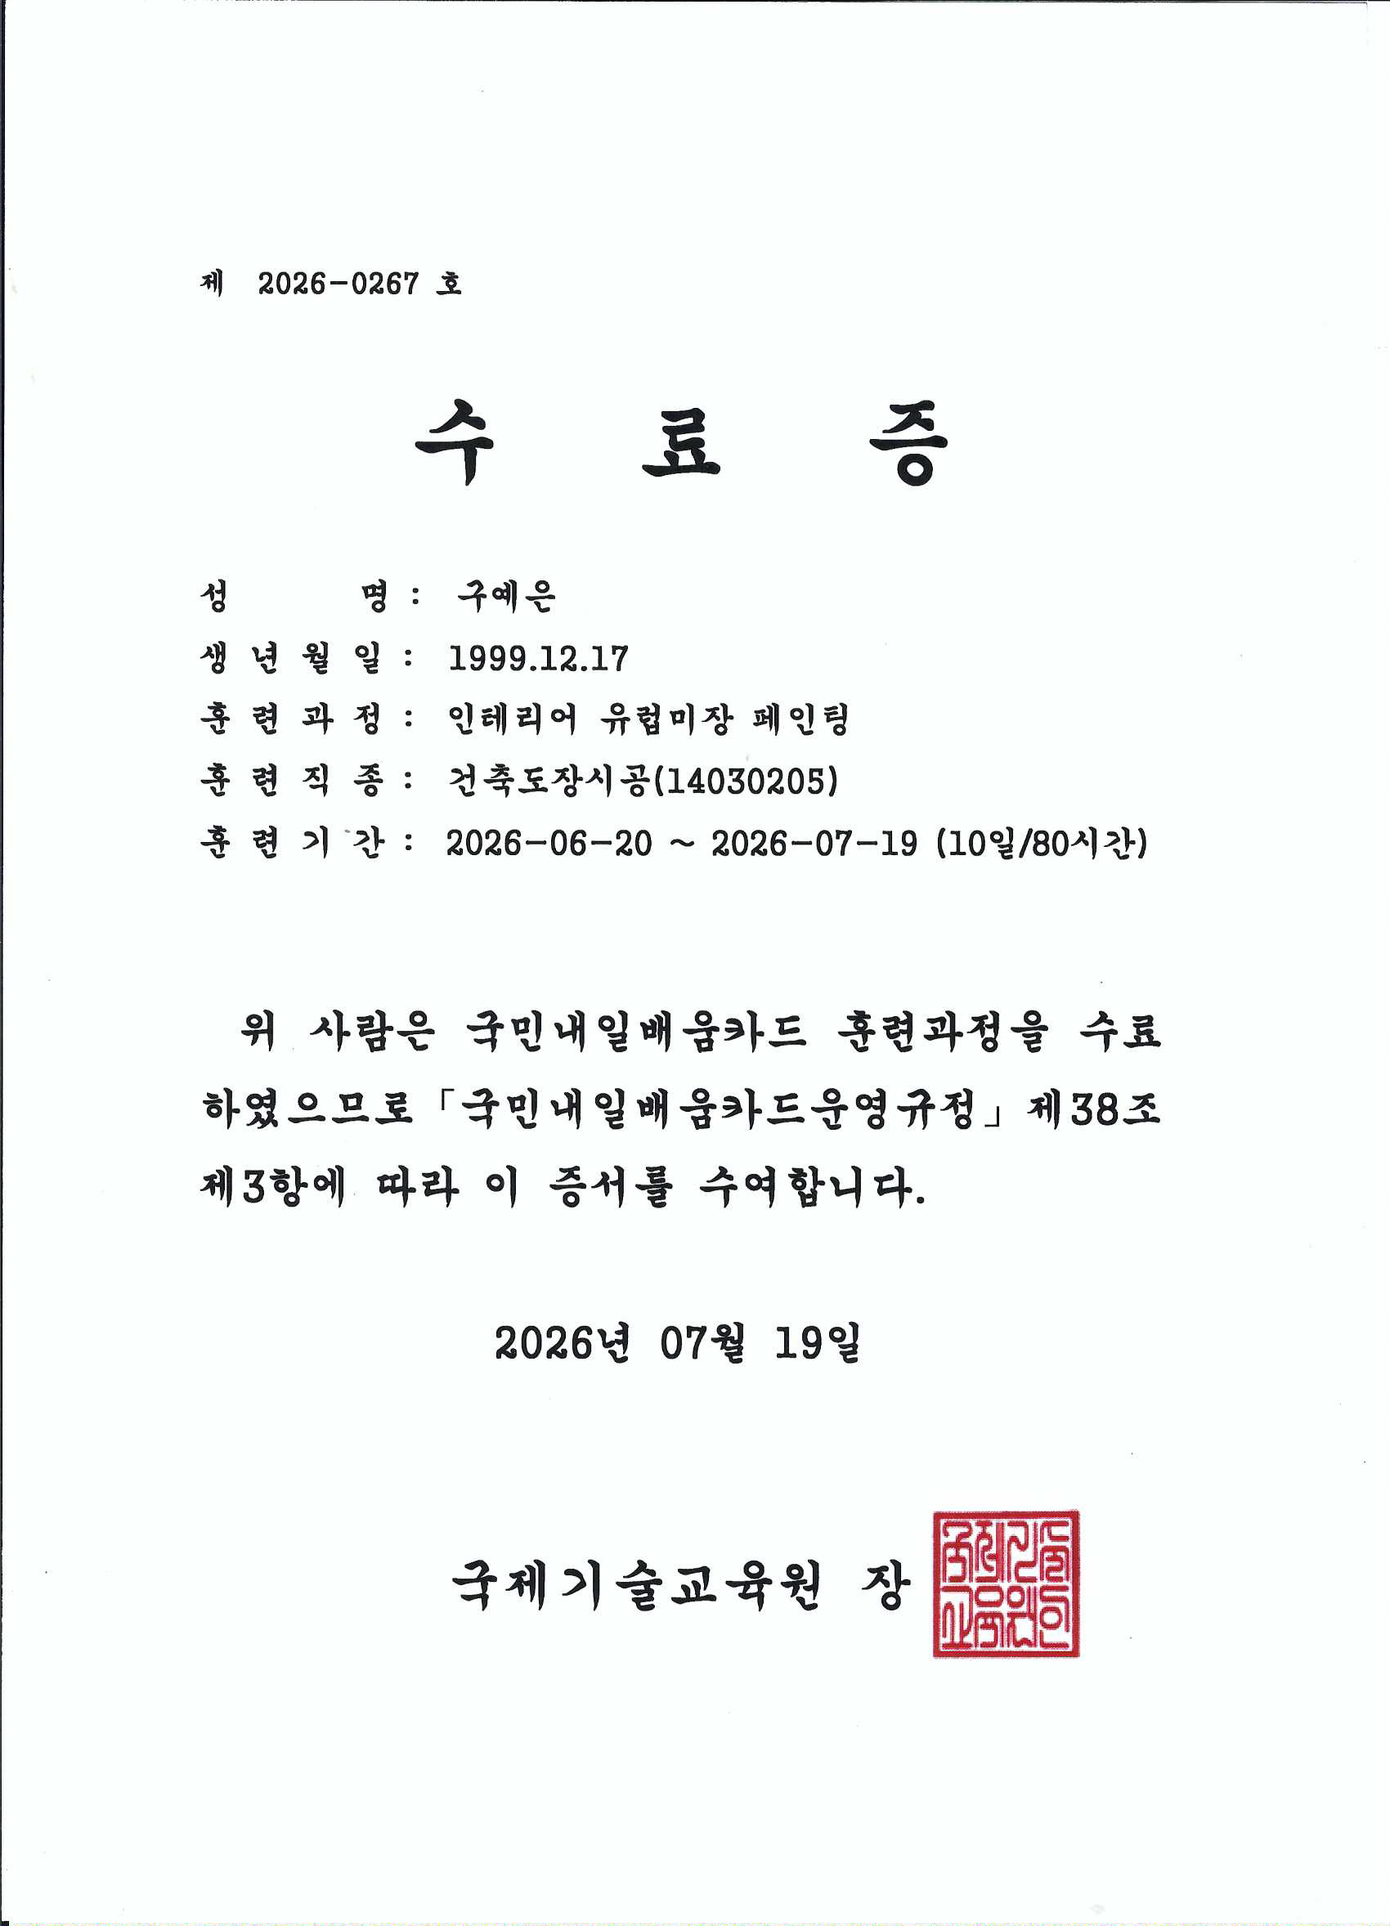
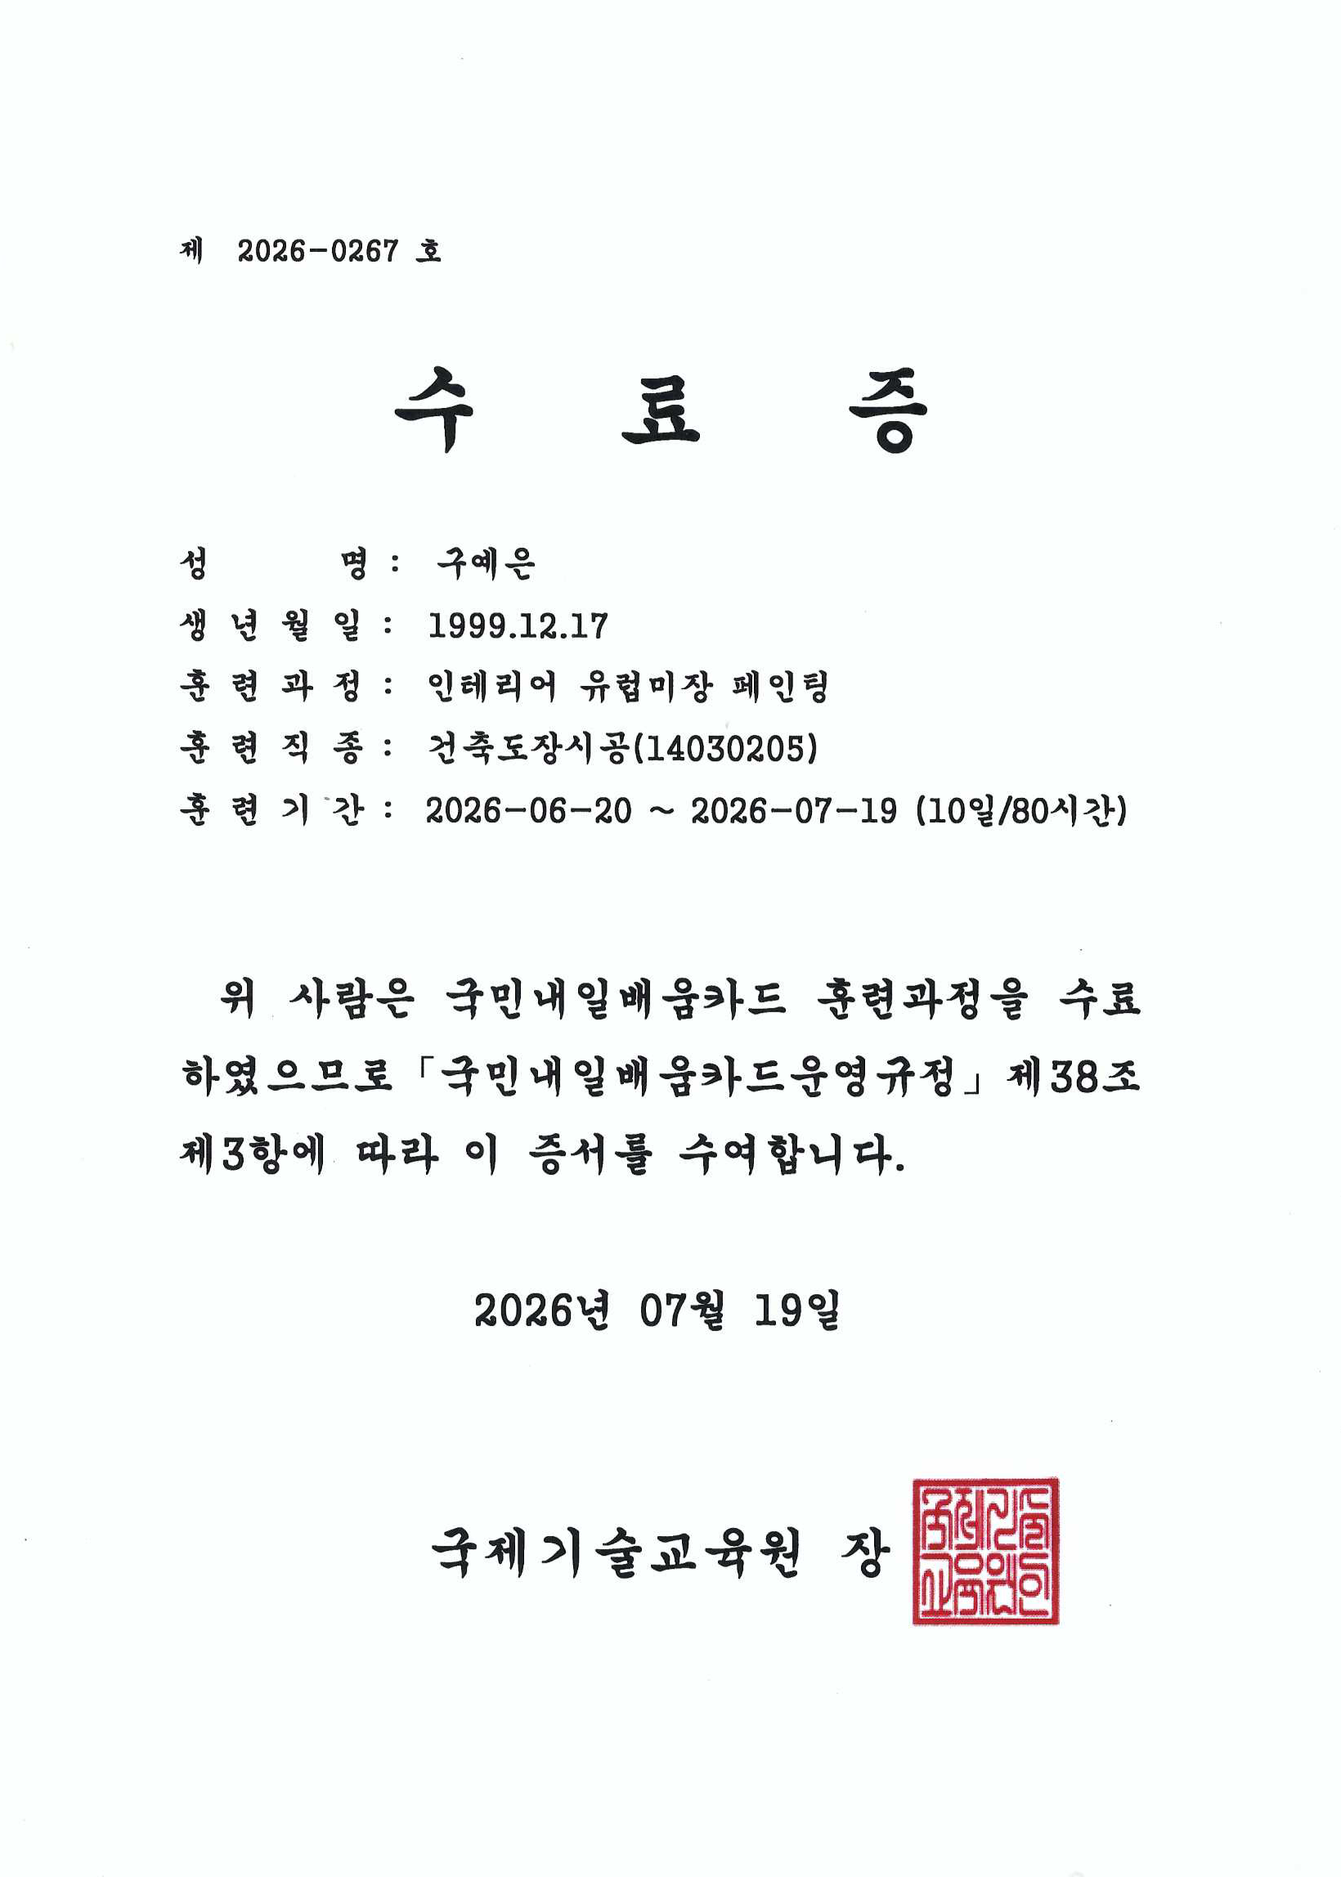
Center about layout, lighten plaster grid, refine watermark
- Center the about resume block as a whole and darken rating squares
- Full-width grayscale certificate band on a white bar
- Plaster grid/preview use resized JPEGs; originals only in detail view
- Halve watermark size and invert it over photos; space home title above it
- Update certificate images

diff --git a/index.html b/index.html
@@ -38,7 +38,7 @@
               data-optional-image
             />
             <figcaption class="about-portrait-caption">
-              <span>구 예 은</span>
+              <span class="about-portrait-name">구 예 은</span>
               <span>KU YE EUN</span>
               <span>1999. 12. 17</span>
             </figcaption>
@@ -263,7 +263,7 @@
                 type="button"
                 data-project-card="plaster-01"
                 data-opens-detail
-                data-preview-image="image/plaster/261103_모티브스톤_2.png"
+                data-preview-image="image/plaster/preview/261103_모티브스톤_2.jpg"
                 data-preview-title="MOTIVE STONE SERIES"
                 data-preview-meta="261103 / PLASTER / 2026"
                 data-detail-number="PROJECT 01 / 2026"
@@ -272,33 +272,33 @@
                 data-detail-images="image/plaster/261103_모티브스톤_1.png|image/plaster/261103_모티브스톤B_1.png"
               >
                 <span class="project-thumb ratio-landscape">
-                  <img src="image/plaster/261103_모티브스톤_2.png" alt="Motive Stone plaster series" width="2856" height="3492" decoding="async" />
+                  <img src="image/plaster/thumb/261103_모티브스톤_2.jpg" alt="Motive Stone plaster series" width="2856" height="3492" decoding="async" />
                 </span>
                 <span class="project-card-title">01 MOTIVE STONE</span>
               </button>
 
-              <button class="project-card project-card-real" type="button" data-project-card="plaster-02" data-opens-detail data-preview-image="image/plaster/260719_베네치안스타코_2.png" data-preview-title="VENETIAN STUCCO" data-preview-meta="260719 / PLASTER / 2026" data-detail-number="PROJECT 02 / 2026" data-detail-title="VENETIAN STUCCO" data-detail-description="A polished plaster study focused on depth, movement, subtle reflection, and layered Venetian stucco finishes." data-detail-images="image/plaster/260719_베네치안스타코_2.png|image/plaster/260719_베네치안스타코_1.png">
-                <span class="project-thumb ratio-portrait"><img src="image/plaster/260719_베네치안스타코_2.png" alt="Venetian stucco plaster project" width="3486" height="5167" loading="lazy" decoding="async" /></span>
+              <button class="project-card project-card-real" type="button" data-project-card="plaster-02" data-opens-detail data-preview-image="image/plaster/preview/260719_베네치안스타코_2.jpg" data-preview-title="VENETIAN STUCCO" data-preview-meta="260719 / PLASTER / 2026" data-detail-number="PROJECT 02 / 2026" data-detail-title="VENETIAN STUCCO" data-detail-description="A polished plaster study focused on depth, movement, subtle reflection, and layered Venetian stucco finishes." data-detail-images="image/plaster/260719_베네치안스타코_2.png|image/plaster/260719_베네치안스타코_1.png">
+                <span class="project-thumb ratio-portrait"><img src="image/plaster/thumb/260719_베네치안스타코_2.jpg" alt="Venetian stucco plaster project" width="3486" height="5167" loading="lazy" decoding="async" /></span>
                 <span class="project-card-title">02 VENETIAN STUCCO</span>
               </button>
-              <button class="project-card project-card-real" type="button" data-project-card="plaster-03" data-opens-detail data-preview-image="image/plaster/260718_스터코빈티지_1.png" data-preview-title="STUCCO VINTAGE" data-preview-meta="260718 / PLASTER / 2026" data-detail-number="PROJECT 03 / 2026" data-detail-title="STUCCO VINTAGE" data-detail-description="A vintage stucco surface study shaped through layered texture, tonal variation, and a softly weathered finish." data-detail-images="image/plaster/260718_스터코빈티지_1.png">
-                <span class="project-thumb ratio-wide"><img src="image/plaster/260718_스터코빈티지_1.png" alt="Stucco vintage plaster project" width="3396" height="4900" loading="lazy" decoding="async" /></span>
+              <button class="project-card project-card-real" type="button" data-project-card="plaster-03" data-opens-detail data-preview-image="image/plaster/preview/260718_스터코빈티지_1.jpg" data-preview-title="STUCCO VINTAGE" data-preview-meta="260718 / PLASTER / 2026" data-detail-number="PROJECT 03 / 2026" data-detail-title="STUCCO VINTAGE" data-detail-description="A vintage stucco surface study shaped through layered texture, tonal variation, and a softly weathered finish." data-detail-images="image/plaster/260718_스터코빈티지_1.png">
+                <span class="project-thumb ratio-wide"><img src="image/plaster/thumb/260718_스터코빈티지_1.jpg" alt="Stucco vintage plaster project" width="3396" height="4900" loading="lazy" decoding="async" /></span>
                 <span class="project-card-title">03 STUCCO VINTAGE</span>
               </button>
-              <button class="project-card project-card-real" type="button" data-project-card="plaster-04" data-opens-detail data-preview-image="image/plaster/260705_루이스네이처_2.png" data-preview-title="LOUIS NATURE" data-preview-meta="260705 / PLASTER / 2026" data-detail-number="PROJECT 04 / 2026" data-detail-title="LOUIS NATURE" data-detail-description="A natural plaster composition balancing mineral color, broad movement, and a calm hand-worked surface." data-detail-images="image/plaster/260705_루이스네이처_2.png">
-                <span class="project-thumb ratio-square"><img src="image/plaster/260705_루이스네이처_2.png" alt="Louis Nature plaster project" width="3510" height="2220" loading="lazy" decoding="async" /></span>
+              <button class="project-card project-card-real" type="button" data-project-card="plaster-04" data-opens-detail data-preview-image="image/plaster/preview/260705_루이스네이처_2.jpg" data-preview-title="LOUIS NATURE" data-preview-meta="260705 / PLASTER / 2026" data-detail-number="PROJECT 04 / 2026" data-detail-title="LOUIS NATURE" data-detail-description="A natural plaster composition balancing mineral color, broad movement, and a calm hand-worked surface." data-detail-images="image/plaster/260705_루이스네이처_2.png">
+                <span class="project-thumb ratio-square"><img src="image/plaster/thumb/260705_루이스네이처_2.jpg" alt="Louis Nature plaster project" width="3510" height="2220" loading="lazy" decoding="async" /></span>
                 <span class="project-card-title">04 LOUIS NATURE</span>
               </button>
-              <button class="project-card project-card-real" type="button" data-project-card="plaster-05" data-opens-detail data-preview-image="image/plaster/260704_베네치안 플라스터_1.png" data-preview-title="VENETIAN PLASTER" data-preview-meta="260704 / PLASTER / 2026" data-detail-number="PROJECT 05 / 2026" data-detail-title="VENETIAN PLASTER" data-detail-description="A Venetian plaster finish exploring polished depth, subtle reflection, and continuous movement across the wall." data-detail-images="image/plaster/260704_베네치안 플라스터_1.png">
-                <span class="project-thumb ratio-wide"><img src="image/plaster/260704_베네치안 플라스터_1.png" alt="Venetian plaster project" width="3900" height="2466" loading="lazy" decoding="async" /></span>
+              <button class="project-card project-card-real" type="button" data-project-card="plaster-05" data-opens-detail data-preview-image="image/plaster/preview/260704_베네치안 플라스터_1.jpg" data-preview-title="VENETIAN PLASTER" data-preview-meta="260704 / PLASTER / 2026" data-detail-number="PROJECT 05 / 2026" data-detail-title="VENETIAN PLASTER" data-detail-description="A Venetian plaster finish exploring polished depth, subtle reflection, and continuous movement across the wall." data-detail-images="image/plaster/260704_베네치안 플라스터_1.png">
+                <span class="project-thumb ratio-wide"><img src="image/plaster/thumb/260704_베네치안 플라스터_1.jpg" alt="Venetian plaster project" width="3900" height="2466" loading="lazy" decoding="async" /></span>
                 <span class="project-card-title">05 VENETIAN PLASTER</span>
               </button>
-              <button class="project-card project-card-real" type="button" data-project-card="plaster-06" data-opens-detail data-preview-image="image/plaster/260627_석회접착미장재_1.png" data-preview-title="LIME PLASTER" data-preview-meta="260627 / PLASTER / 2026" data-detail-number="PROJECT 06 / 2026" data-detail-title="LIME PLASTER" data-detail-description="A lime-based plaster test focused on adhesion, mineral texture, and the soft variation created by manual application." data-detail-images="image/plaster/260627_석회접착미장재_1.png">
-                <span class="project-thumb ratio-square"><img src="image/plaster/260627_석회접착미장재_1.png" alt="Lime plaster project" width="2552" height="4072" loading="lazy" decoding="async" /></span>
+              <button class="project-card project-card-real" type="button" data-project-card="plaster-06" data-opens-detail data-preview-image="image/plaster/preview/260627_석회접착미장재_1.jpg" data-preview-title="LIME PLASTER" data-preview-meta="260627 / PLASTER / 2026" data-detail-number="PROJECT 06 / 2026" data-detail-title="LIME PLASTER" data-detail-description="A lime-based plaster test focused on adhesion, mineral texture, and the soft variation created by manual application." data-detail-images="image/plaster/260627_석회접착미장재_1.png">
+                <span class="project-thumb ratio-square"><img src="image/plaster/thumb/260627_석회접착미장재_1.jpg" alt="Lime plaster project" width="2552" height="4072" loading="lazy" decoding="async" /></span>
                 <span class="project-card-title">06 LIME PLASTER</span>
               </button>
-              <button class="project-card project-card-real" type="button" data-project-card="plaster-07" data-opens-detail data-preview-image="image/plaster/260615_바르다미장_2.png" data-preview-title="BARDA PLASTER" data-preview-meta="260615 / PLASTER / 2026" data-detail-number="PROJECT 07 / 2026" data-detail-title="BARDA PLASTER" data-detail-description="A hand-applied plaster study using restrained color and irregular movement to build a tactile architectural surface." data-detail-images="image/plaster/260615_바르다미장_2.png">
-                <span class="project-thumb ratio-portrait"><img src="image/plaster/260615_바르다미장_2.png" alt="Barda plaster project" width="2976" height="4400" loading="lazy" decoding="async" /></span>
+              <button class="project-card project-card-real" type="button" data-project-card="plaster-07" data-opens-detail data-preview-image="image/plaster/preview/260615_바르다미장_2.jpg" data-preview-title="BARDA PLASTER" data-preview-meta="260615 / PLASTER / 2026" data-detail-number="PROJECT 07 / 2026" data-detail-title="BARDA PLASTER" data-detail-description="A hand-applied plaster study using restrained color and irregular movement to build a tactile architectural surface." data-detail-images="image/plaster/260615_바르다미장_2.png">
+                <span class="project-thumb ratio-portrait"><img src="image/plaster/thumb/260615_바르다미장_2.jpg" alt="Barda plaster project" width="2976" height="4400" loading="lazy" decoding="async" /></span>
                 <span class="project-card-title">07 BARDA PLASTER</span>
               </button>
               <button class="project-card" type="button" data-project-card="plaster-08" data-preview-title="PLASTER PROJECT 08" data-preview-meta="COMING SOON">
@@ -314,7 +314,7 @@
 
           <aside class="project-preview" aria-live="polite">
             <div class="preview-frame">
-              <img class="preview-image" src="image/plaster/261103_모티브스톤_2.png" alt="Selected plaster project preview" width="2856" height="3492" decoding="async" />
+              <img class="preview-image" src="image/plaster/preview/261103_모티브스톤_2.jpg" alt="Selected plaster project preview" width="2856" height="3492" decoding="async" />
               <div class="preview-placeholder" hidden></div>
             </div>
             <div class="preview-caption">

diff --git a/styles.css b/styles.css
@@ -6,6 +6,8 @@
   --clay: #b36d57;
   --sage: #7f9b8b;
   --charcoal: #202020;
+  /* 워터마크 기본 너비 (home 제목 위치 계산에도 사용) */
+  --wm-size: clamp(75px, 11vw, 180px);
 }
 
 * {
@@ -80,7 +82,8 @@ body {
 .home-center {
   position: absolute;
   left: 50%;
-  top: 50%;
+  /* 워터마크 글자 윗선(로고 높이의 25.5%)에서 18px 위에 제목 배치 */
+  top: calc(50% - 5px - 0.0815 * var(--wm-size));
   text-align: center;
   transform: translate(-50%, -50%);
 }
@@ -167,6 +170,11 @@ body {
   white-space: nowrap;
 }
 
+.about-portrait-name {
+  font-size: 10px;
+  font-weight: 700;
+}
+
 .about-portrait-frame:hover .about-portrait {
   transform: rotate(3deg) scale(1.015);
 }
@@ -174,8 +182,10 @@ body {
 .about-resume {
   position: relative;
   z-index: 71;
-  --resume-indent: calc((100% - 360px) / 2);
-  max-width: 548px;
+  /* 목록 묶음 전체를 가운데 정렬: 가장 긴 줄 너비에 맞춰 줄이고 중앙 배치 */
+  --resume-indent: 0px;
+  width: fit-content;
+  max-width: min(100%, 548px);
   margin: 0 auto;
   padding: 28px 12px 64px;
   /* 이름 문구와 EDUCATION 사이 간격을 기존의 3배로 */
@@ -238,7 +248,8 @@ body {
 }
 
 .resume-software-list {
-  width: min(100%, 360px);
+  /* 이름과 네모 칸 사이 간격 50% 축소 */
+  width: min(100%, 235px);
   margin: 0;
   margin-left: var(--resume-indent);
 }
@@ -270,23 +281,28 @@ body {
   width: 8px;
   height: 8px;
   flex: 0 0 8px;
-  border: 1px solid #91a8b7;
-  border-radius: 50%;
+  border: 1px solid #4f6b8c;
+  border-radius: 0;
 }
 
 .resume-rating .is-filled {
-  background: #91a8b7;
+  background: #4f6b8c;
 }
 
 .resume-group.resume-certificates {
+  /* 화면 전체 너비 띠가 목록 묶음의 가운데 정렬 너비 계산에 영향 주지 않도록 */
+  contain: inline-size;
   margin-top: 264px;
 }
 
 .resume-certificate-marquee {
   container-type: inline-size;
-  width: calc(100% - var(--resume-indent));
-  margin-left: var(--resume-indent);
+  /* 좌우 화면 끝까지 넓게 */
+  width: 100vw;
+  margin-left: calc(50% - 50vw);
   overflow: hidden;
+  /* 자격증 높이만큼의 가로 흰색 띠 */
+  background: #fff;
 }
 
 .resume-certificate-track {
@@ -316,7 +332,7 @@ body {
 
 .resume-certificate {
   flex: 0 0 auto;
-  width: calc((100cqi - 12px) / 2);
+  width: calc((100cqi - 36px) / 4);
   margin: 0 12px 0 0;
   aspect-ratio: 3 / 4;
 }
@@ -327,6 +343,7 @@ body {
   height: 100%;
   object-fit: contain;
   object-position: center top;
+  filter: grayscale(1);
 }
 
 .page-heading p {
@@ -395,11 +412,11 @@ body {
   left: var(--wm-x, 50vw);
   top: var(--wm-y, 50vh);
   z-index: 90;
-  width: var(--wm-width, clamp(150px, 22vw, 360px));
+  width: var(--wm-width, var(--wm-size));
   aspect-ratio: 2172 / 724;
   pointer-events: none;
   transform: translate(-50%, -50%);
-  /* 흰색 로고 + difference: 흰 배경 위에선 검정, 검정 글자 위에선 흰색(반전) */
+  /* 흰색 로고 + difference: 흰 배경 위에선 검정, 글자·사진과 겹치면 색 반전 */
   mix-blend-mode: difference;
   user-select: none;
 }
@@ -409,15 +426,6 @@ body {
   width: 100%;
   height: 100%;
   filter: invert(1);
-}
-
-/* 작업물 위에서는 반전 없이 항상 검정 */
-.site-watermark.is-on-artwork {
-  mix-blend-mode: normal;
-}
-
-.site-watermark.is-on-artwork img {
-  filter: none;
 }
 
 a {
@@ -821,8 +829,12 @@ h2 {
     padding-right: 4px;
   }
 
+  .home-center {
+    top: calc(50% - 1px - 0.0815 * var(--wm-size));
+  }
+
   .home-title {
-    font-size: 6px;
+    font-size: 9px;
   }
 
   .text-page {
@@ -844,7 +856,7 @@ h2 {
   }
 
   .about-resume {
-    --resume-indent: 80px;
+    --resume-indent: 0px;
     padding: 24px 18px 48px;
     padding-top: calc(100svh - 32px - min(49.6vw, 256px) * 1.25 + 20px);
   }
@@ -855,6 +867,10 @@ h2 {
 
   .resume-group.resume-certificates {
     margin-top: 228px;
+  }
+
+  .resume-certificate {
+    width: calc((100cqi - 12px) / 2);
   }
 
   .resume-list > div {
@@ -872,7 +888,7 @@ h2 {
   }
 
   .resume-software-list {
-    width: calc(100% - var(--resume-indent));
+    width: min(calc(100% - var(--resume-indent)), 235px);
   }
 
   .page-copy,

diff --git a/script.js b/script.js
@@ -542,7 +542,7 @@ window.addEventListener("resize", resizeGridCanvas);
 showPage(window.location.hash.slice(1) || "home", false);
 resizeGridCanvas();
 
-// 도용방지 워터마크: 작업물이 보이면 작업물 중앙(검정), 아니면 화면 중앙(겹치는 글자 반전)
+// 도용방지 워터마크: 작업물이 보이면 작업물 중앙, 아니면 화면 중앙 (겹치는 글자·사진은 색 반전)
 const watermark = document.querySelector(".site-watermark");
 const headerHeight = 36;
 let watermarkFrame = null;
@@ -583,7 +583,7 @@ function updateWatermark() {
       onArtwork = true;
       x = rect.left + rect.width / 2;
       y = top + (bottom - top) / 2;
-      width = `${Math.min(rect.width * 0.7, Math.max(150, Math.min(window.innerWidth * 0.22, 360)))}px`;
+      width = `${Math.min(rect.width * 0.35, Math.max(75, Math.min(window.innerWidth * 0.11, 180)))}px`;
     }
   }
 

diff --git a/image/plaster/README.md b/image/plaster/README.md
@@ -15,3 +15,11 @@ The Venetian Stucco series uses:
 - `260719_베네치안스타코_2.png`: detail carousel image 2
 
 Keep future filenames in the `YYMMDD_project-name_number.png` format.
+
+Lightweight copies (JPEG, generated from the originals):
+
+- `thumb/` (long side 800px): project grid on the left of the plaster page
+- `preview/` (long side 1800px): large preview on the right of the plaster page
+- Originals (`*.png`) are used only in the project detail page.
+
+When adding a new project, also add its `thumb/` and `preview/` JPEGs.
